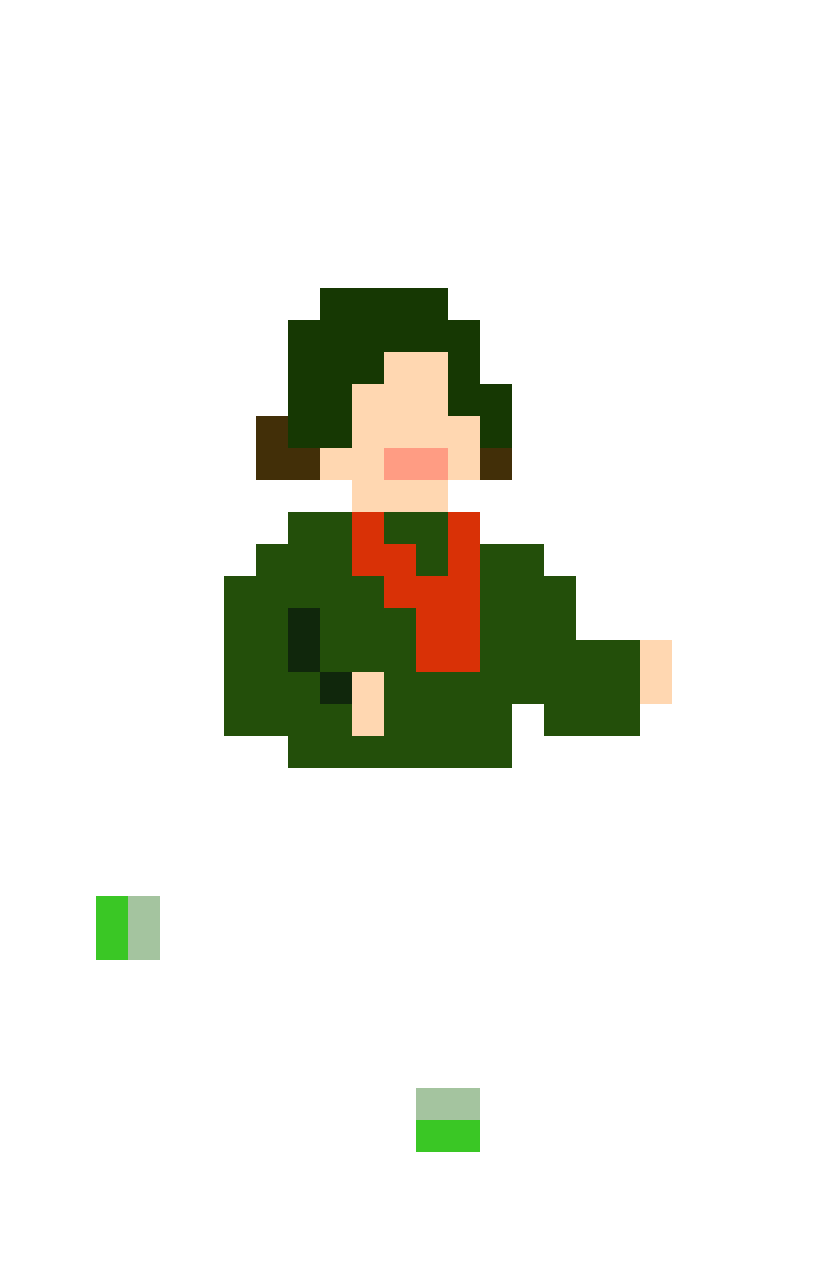
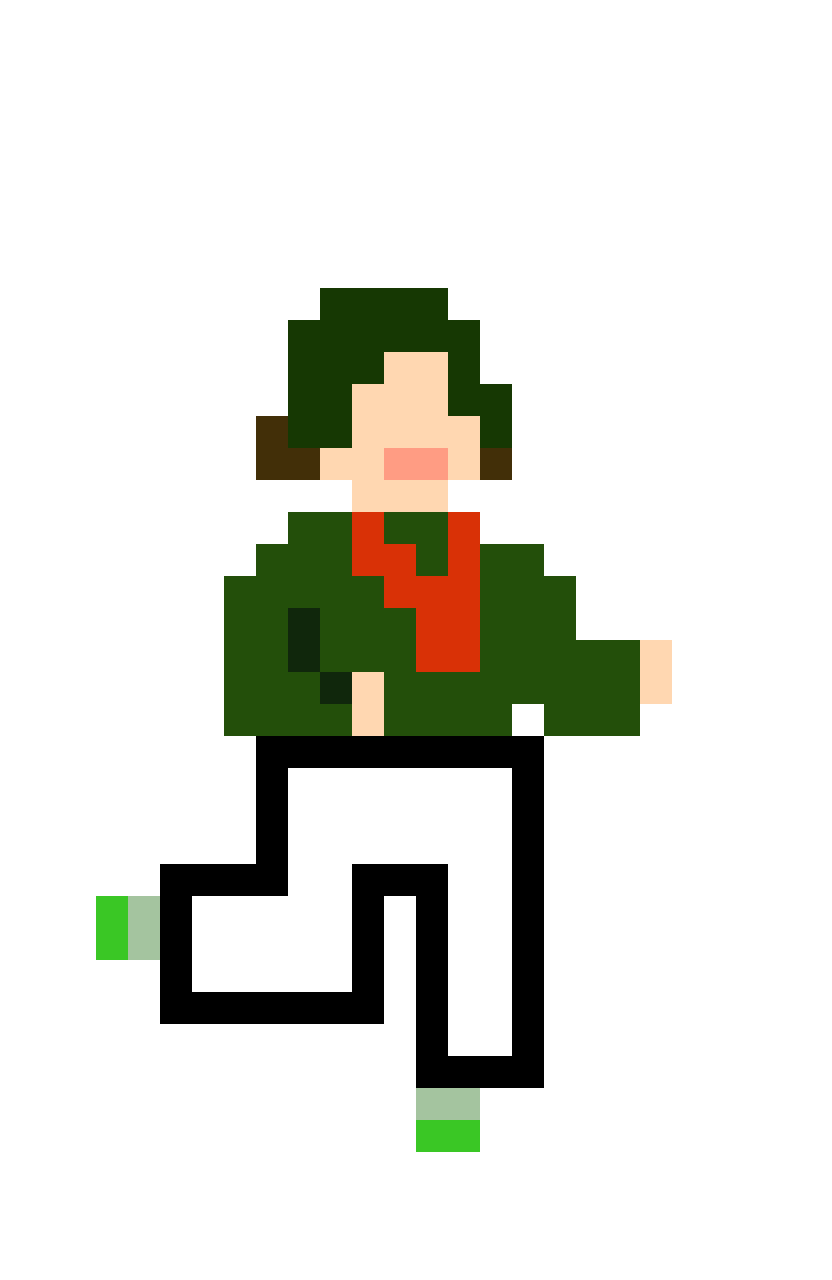
Add better Adil model

Changed region(s): [[0.1875, 0.5625, 0.6562, 0.875]]

diff --git a/index.js b/index.js
@@ -32,7 +32,8 @@ const cactusImagePaths = [
   "images/cactus_10.png",
   "images/cactus_11.png",
   "images/cactus_12.png",
-  "images/cactus_13.png"
+  "images/cactus_13.png",
+  "images/cactus_14.png"
 ];
 
 const CACTI_CONFIG = [
